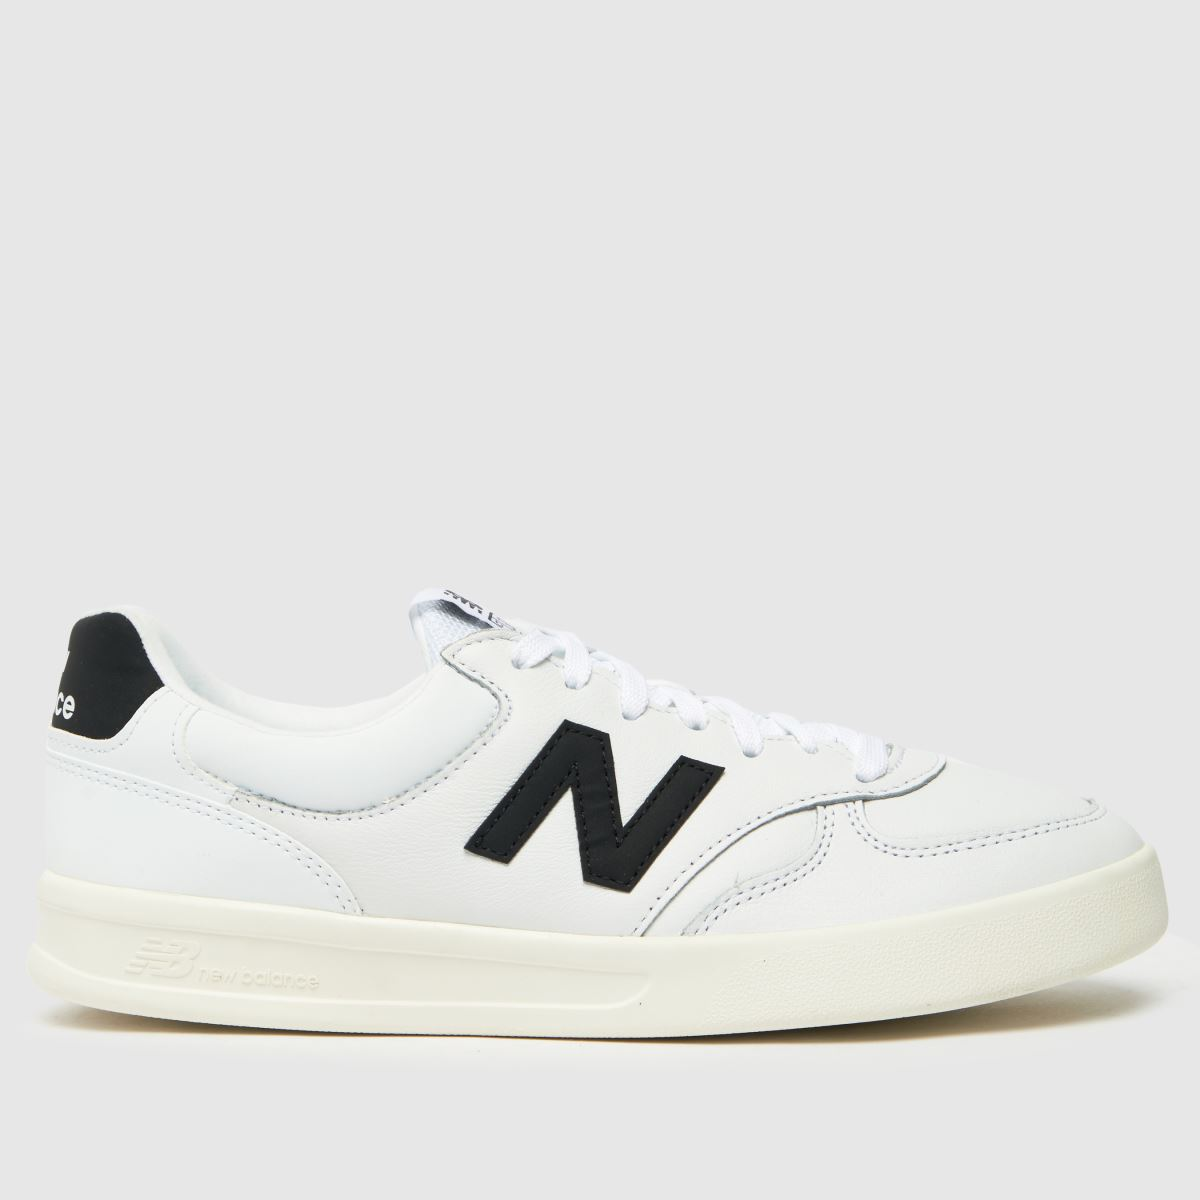
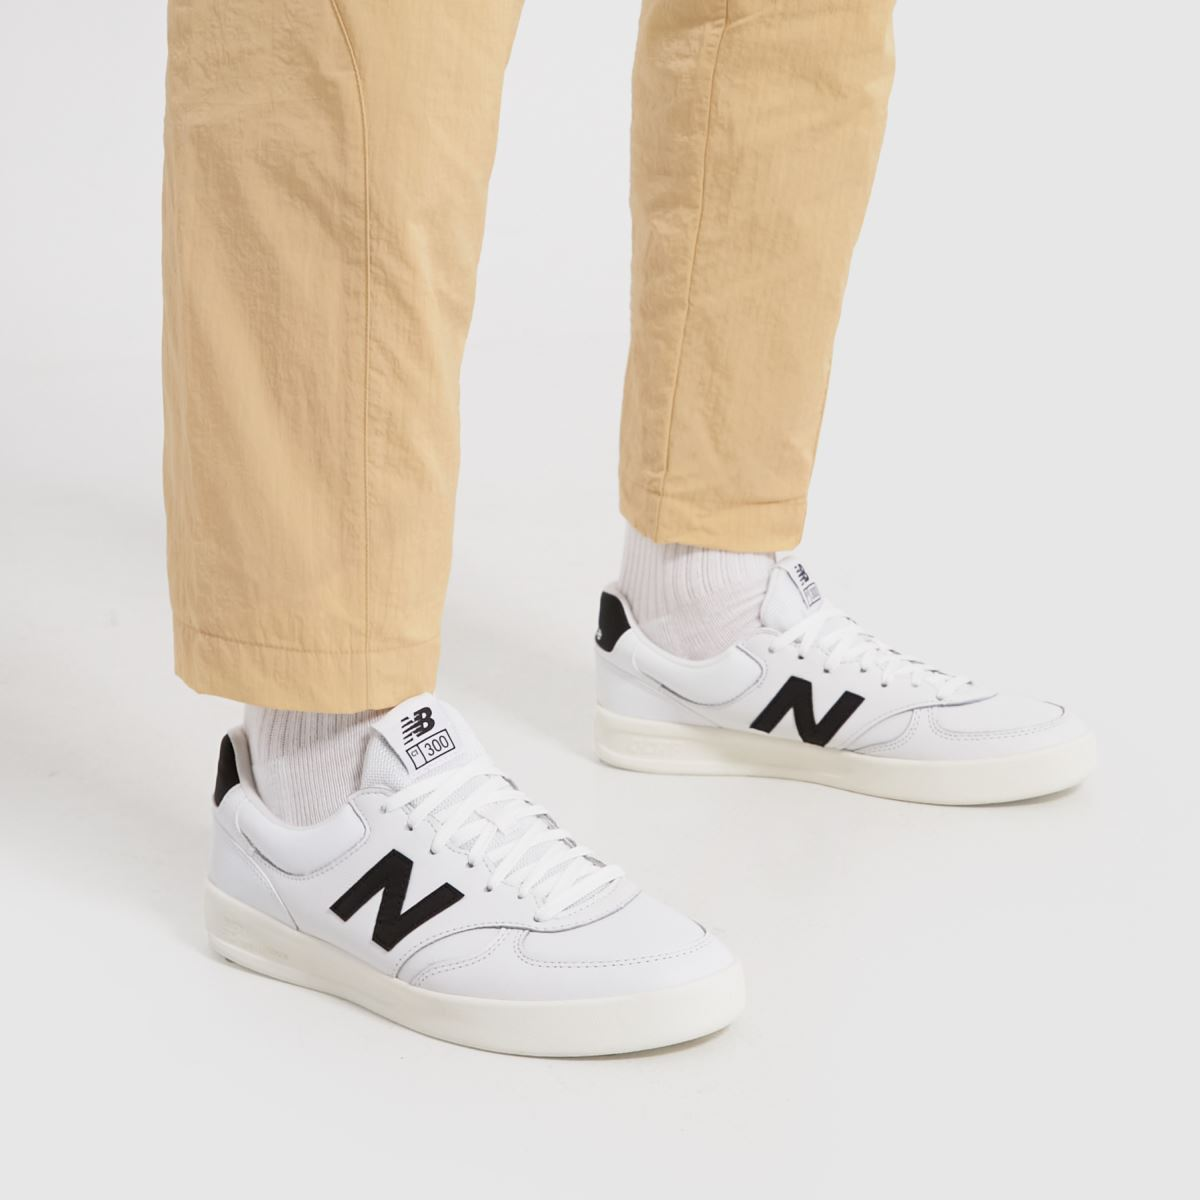
Fixed active gallery picture

diff --git a/app/lightbox.js b/app/lightbox.js
@@ -1,16 +1,32 @@
 const gallery = document.querySelectorAll('.gallery .img');
+const mainImage = document.querySelector('.main_image');
+let clickedImage = document.getElementsByClassName("show");
 console.log('working')
 window.onload = ()=>{
     console.log('working')
     for (let i = 0; i < gallery.length; i++) {
         gallery[i].onclick = () =>{
-            let clickedImage = document.getElementsByClassName("show");
             if (clickedImage.length > 0) {
                 clickedImage[0].classList.remove('show');
+                console.log(clickedImage);
+
+
+                mainImage.innerHTML = `
+                <img class="product_1" src="./images/NEW_BALANCE_${i}.jpg" alt="Sneakers">
+                `;
+                console.log(gallery[i]);
+                console.log(i);
             }
-            console.log(i);
+            console.log(gallery[i]);
+
             gallery[i].classList.add("show");
 
         }
+    }
+}
+
+function ifPicture(){
+    if (clickedImage.length > 0) {
+        
     }
 }

diff --git a/index.html b/index.html
@@ -41,14 +41,14 @@
     <div class="container-flex">
         <main role="main">
             <div class="main_image">
-                <img class="product_1" src="./images/NEW_BALANCE_1.jpg" alt="Sneakers">
+                <img class="product_1" src="./images/NEW_BALANCE_0.jpg" alt="Sneakers">
             </div>
             <section class="gallery-wrapper">
                 <div class="gallery">
+                    <img class="img" src="./images/NEW_BALANCE_0.jpg" alt="">
                     <img class="img" src="./images/NEW_BALANCE_1.jpg" alt="">
                     <img class="img" src="./images/NEW_BALANCE_2.jpg" alt="">
                     <img class="img" src="./images/NEW_BALANCE_3.jpg" alt="">
-                    <img class="img" src="./images/NEW_BALANCE_4.jpg" alt="">
                 </div>
             </section>
         </main>

diff --git a/app/pushingToCart.js b/app/pushingToCart.js
@@ -35,7 +35,7 @@ addCart.addEventListener('click', function(){
     console.log(name);
     
     productBought.innerHTML =`
-    <img class="img_product_bought" src="./images/image-product-1-thumbnail.jpg" alt="">
+    <img class="img_product_bought" src="./images/NEW_BALANCE_0.jpg" alt="">
     <div class="product_especification">
         <p class="product_title">Fall Limited Edition Sneakers</p>
         <p class="price-product_especification">$125.00 x ${a} <strong>$375.00</strong></p>
